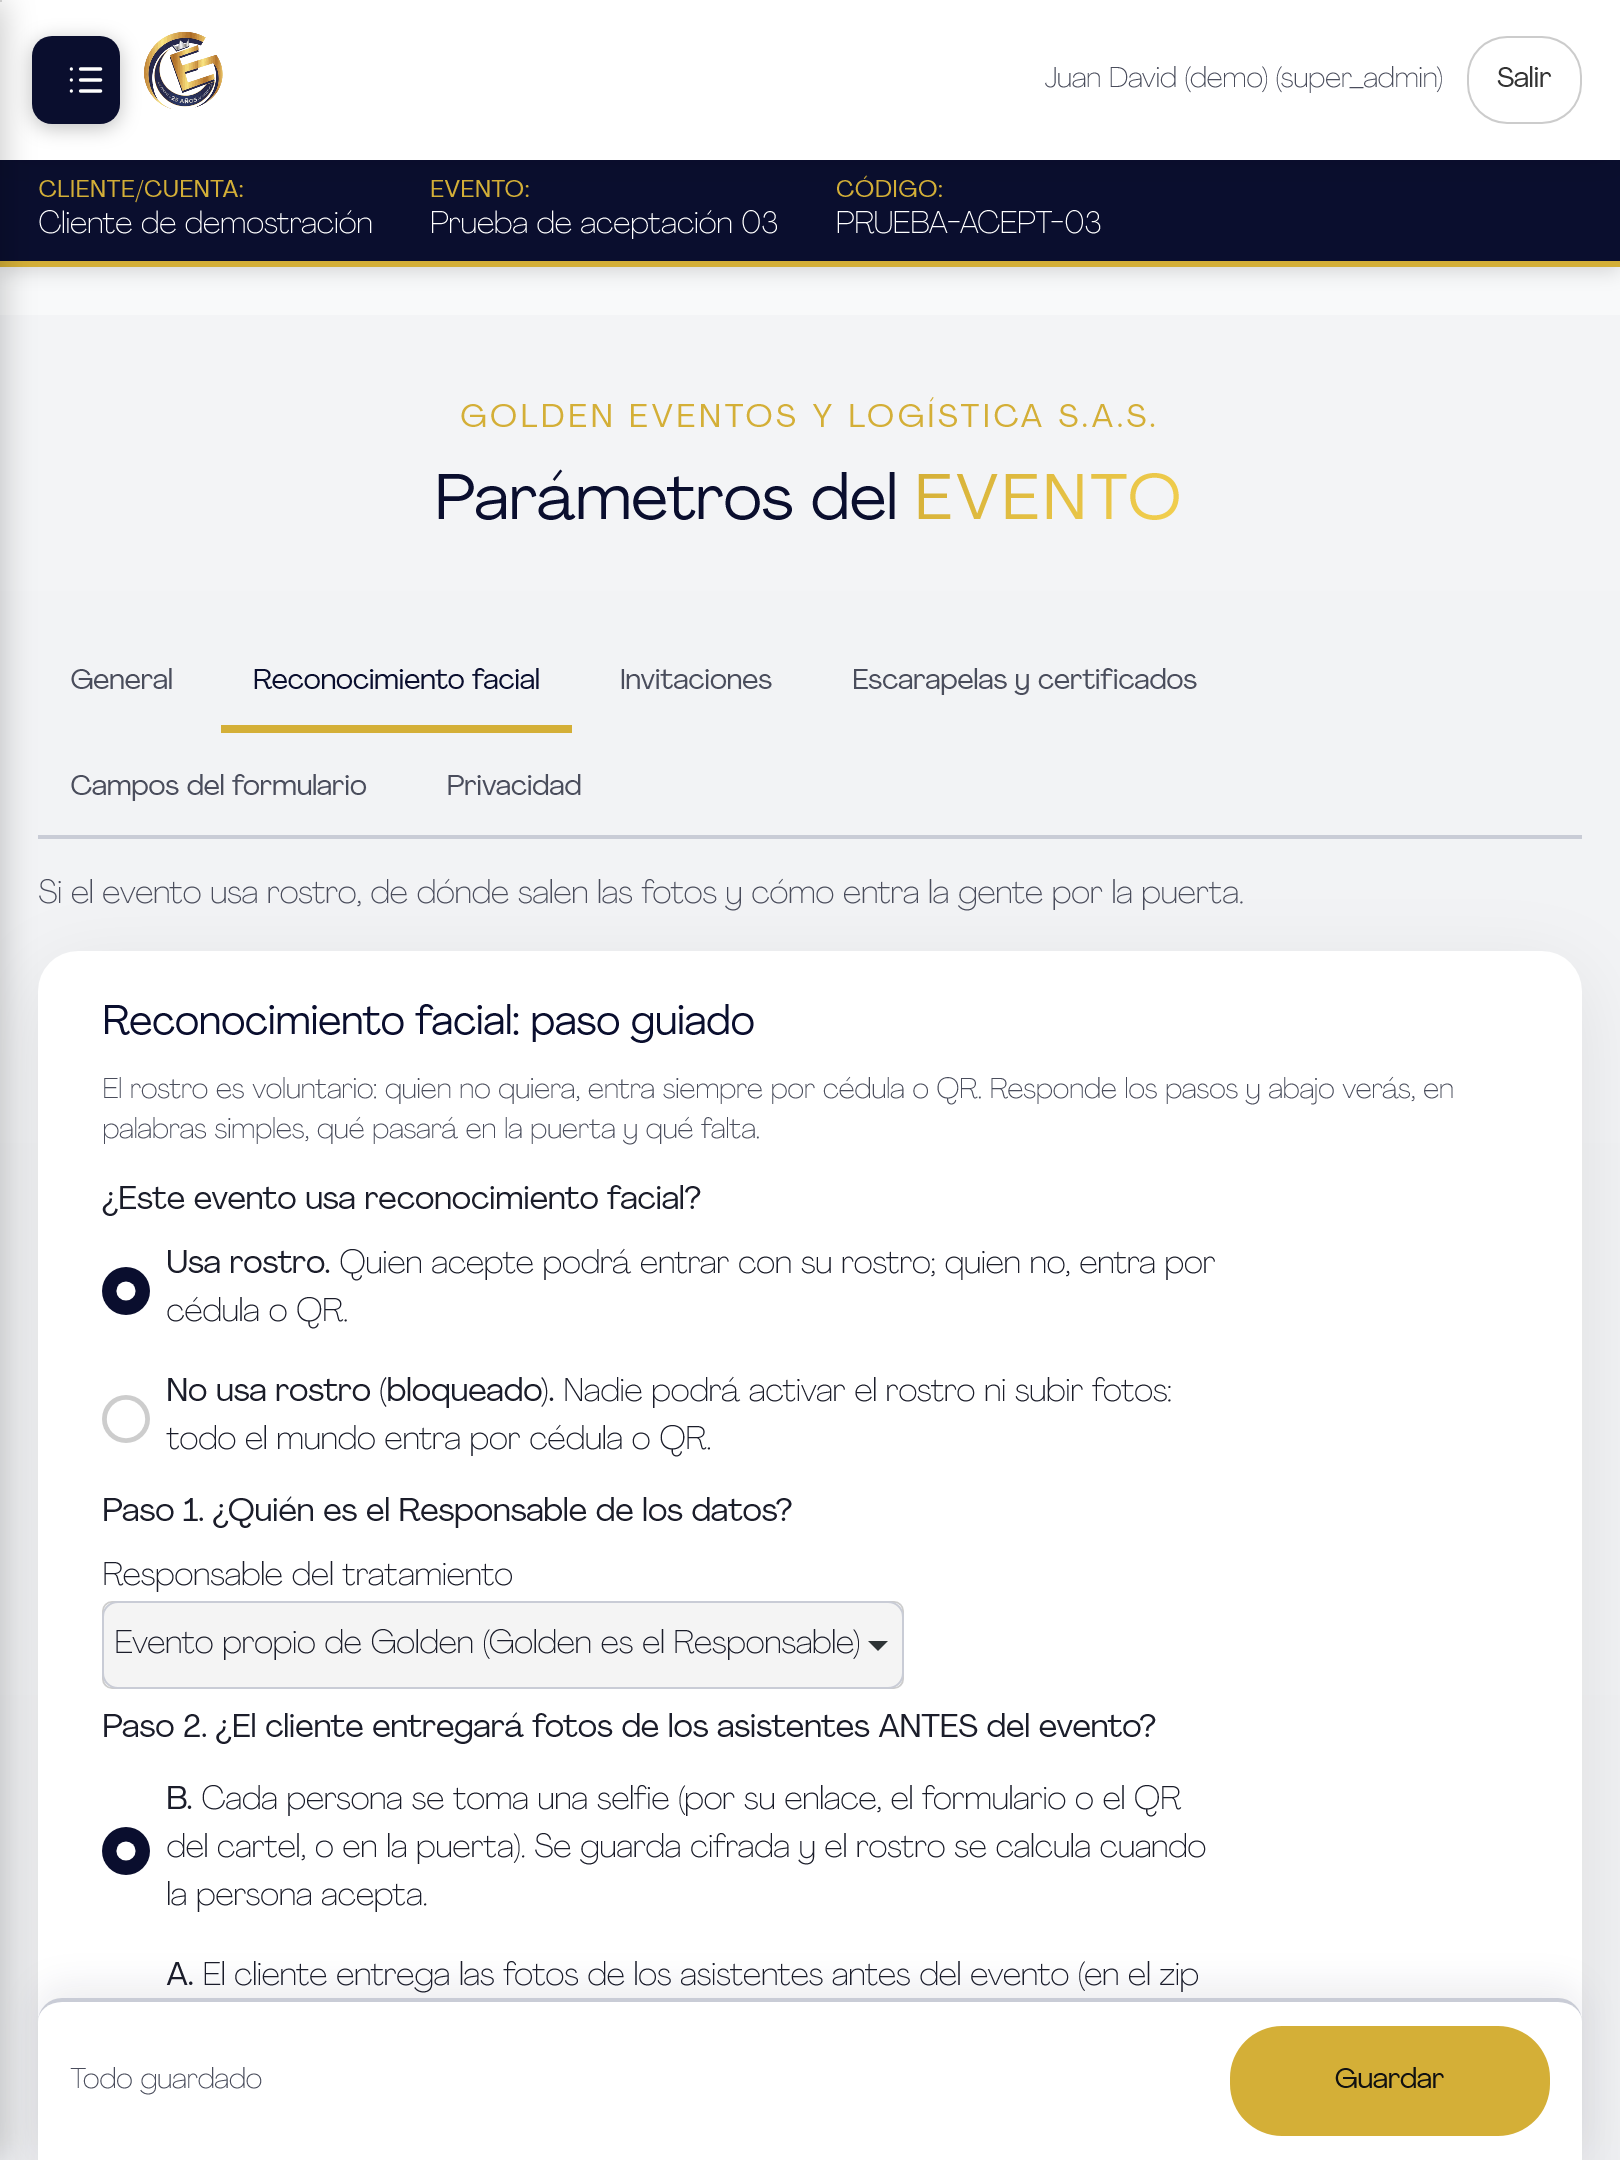
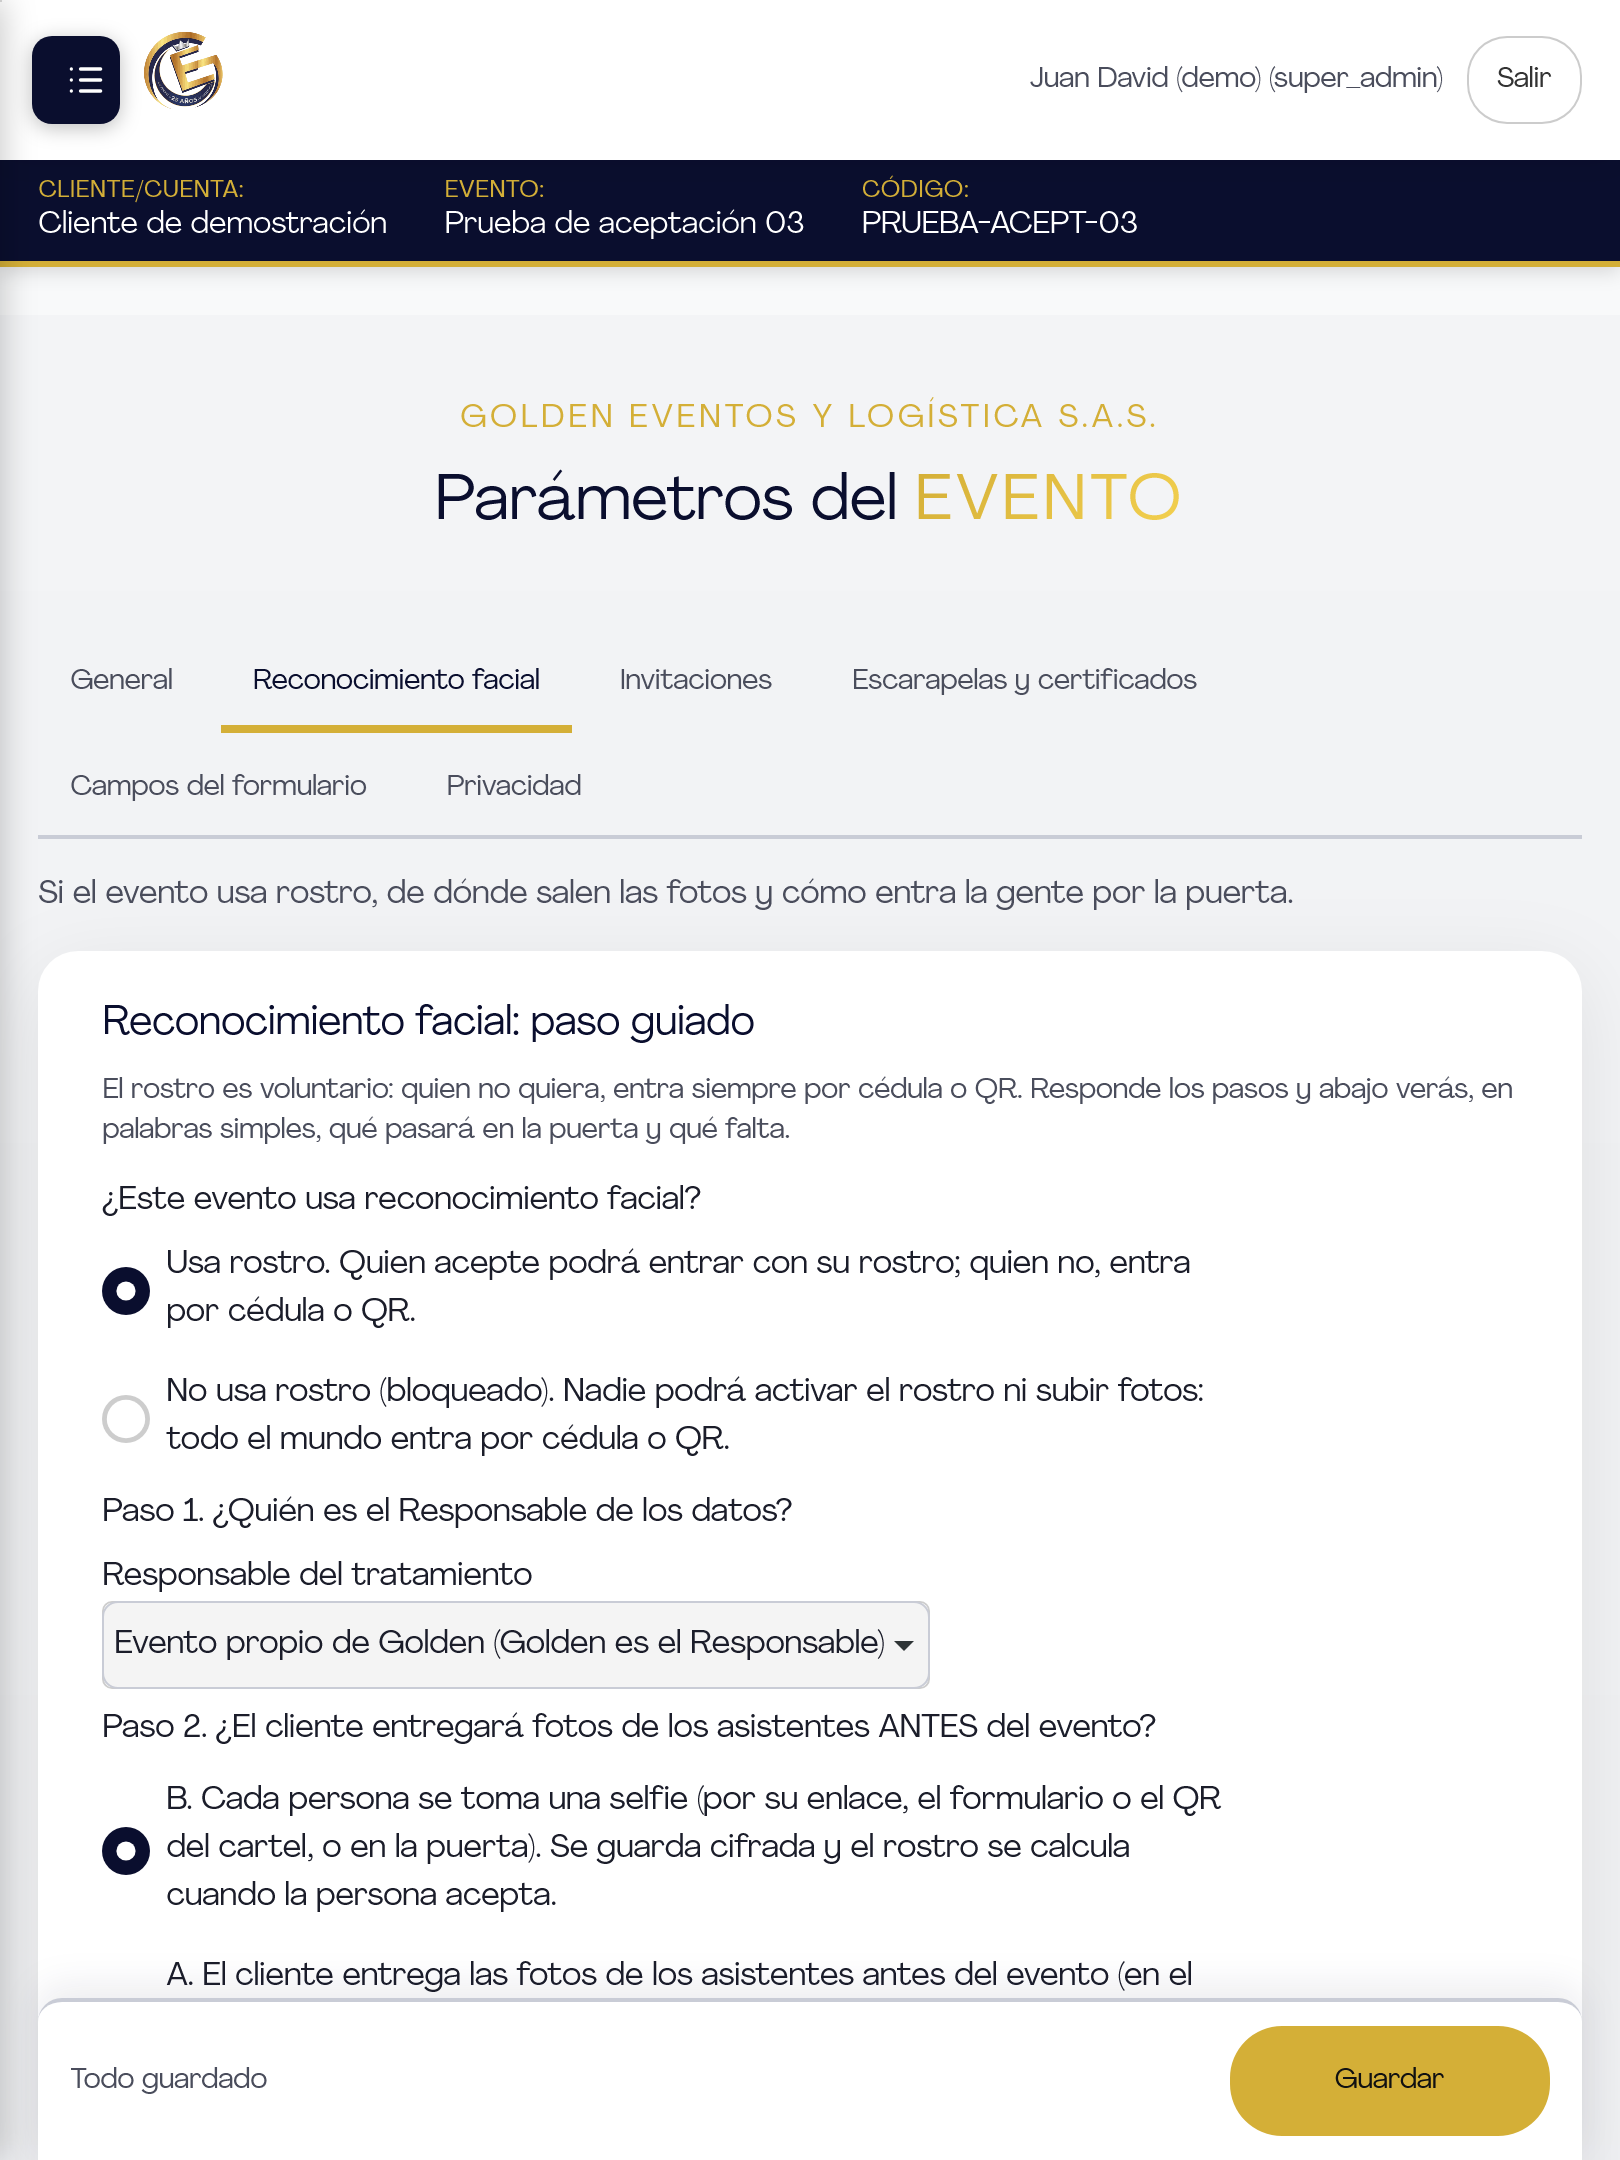
UX: Regular (600) para todo texto de menos de 18 px; Thin solo desde 18 px; prueba, medición y capturas actualizadas

diff --git a/static/css/ux1.css b/static/css/ux1.css
@@ -33,10 +33,14 @@
   /* espaciado y radios */
   --ux-s1: 4px; --ux-s2: 8px; --ux-s3: 12px; --ux-s4: 16px; --ux-s5: 24px; --ux-s6: 32px;
   --ux-r1: 8px; --ux-r2: 12px; --ux-r3: 20px;
+  --ux-weight-small: 600;     /* Regular para texto de menos de 18 px (Agrandir: 100–500 = Thin, 600+ = Regular) */
+  --ux-weight-large: 400;     /* Thin solo desde 18 px */
   --ux-target: 44px;          /* objetivo táctil (Apple HIG 44 pt, Android 48 dp); mínimo WCAG 2.5.8 = 24 px */
 }
 
 /* ------------------------------------------------------------------ base */
+/* Agrandir Thin (peso 400) dibuja un trazo de 0,64 px a 16 px y la ayuda llega a 5,0:1 en pantallas normales (docs/ux/MEDICION_AGRANDIR.md): todo texto de menos de 18 px (cuerpo, ayuda, etiquetas, campos) usa el peso 600 = Agrandir Regular. Thin solo queda para texto de 18 px o más (ninguno hoy: los títulos ya van en 700). */
+body.ux1 { font-weight: var(--ux-weight-small); }
 body.ux1 { font-family: var(--ux-font); font-size: var(--ux-fs-body); line-height: var(--ux-lh-body); color: var(--ux-ink); }
 body.ux1 h1, body.ux1 h2, body.ux1 h3, body.ux1 h4, body.ux1 .mode-title { font-family: var(--ux-font-heading); color: var(--ux-navy); }
 body.ux1 h2 { font-size: var(--ux-fs-display); line-height: 2.5rem; }
@@ -64,7 +68,7 @@ body.ux1 label:has(> input[type="checkbox"]), body.ux1 label:has(> input[type="r
 body.ux1 button, body.ux1 .golden-btn, body.ux1 .small-btn, body.ux1 a.small-btn { min-height: var(--ux-target); min-width: 24px; font-size: var(--ux-fs-label); font-family: var(--ux-font); font-weight: 700; padding-left: var(--ux-s4); padding-right: var(--ux-s4); cursor: pointer; }
 body.ux1 .btn-table-delete, body.ux1 button.ux-compact { min-height: 32px; }
 body.ux1 input[type="text"], body.ux1 input[type="email"], body.ux1 input[type="date"], body.ux1 input[type="number"], body.ux1 input[type="search"], body.ux1 select, body.ux1 textarea {
-  min-height: var(--ux-target); font-size: var(--ux-fs-body); font-family: var(--ux-font); border: 1px solid var(--ux-line); border-radius: var(--ux-r1); color: var(--ux-ink); }
+  min-height: var(--ux-target); font-size: var(--ux-fs-body); font-weight: var(--ux-weight-small); font-family: var(--ux-font); border: 1px solid var(--ux-line); border-radius: var(--ux-r1); color: var(--ux-ink); }
 body.ux1 button:disabled, body.ux1 .golden-btn:disabled { opacity: .6; cursor: not-allowed; }
 
 /* ------------------------------------------------------------------ botones: uno principal por vista (dorado con texto oscuro); el destructivo en rojo y NUNCA principal */

diff --git a/tests/test_ux_fase1.py b/tests/test_ux_fase1.py
@@ -204,3 +204,13 @@ def test_a_tab_is_marked_saved_only_when_the_real_save_finishes_ok(client, facto
     page = client.get(f"/kiosk/{ev.id}/parametros").text
     assert "const runSave" in page and "saveWaiter" in page and "r.ok) dirty[g.id] = false; else" in page          # solo se limpia «sin guardar» con el éxito que avisa el guardado de siempre
     assert "No se guardó: " in page and "Los cambios siguen sin guardar." in page and "dirty[g.id] = false;\n                });" not in page
+
+
+def test_text_under_18_px_uses_agrandir_regular_and_thin_is_kept_for_18_px_or_more():
+    assert "--ux-weight-small: 600;" in CSS and "--ux-weight-large: 400;" in CSS and "body.ux1 { font-weight: var(--ux-weight-small); }" in CSS
+    inputs = re.search(r"body\.ux1 input\[type=\"text\"\].*?\{(.*?)\}", CSS, re.S).group(1)
+    assert "font-weight: var(--ux-weight-small)" in inputs                                          # los campos de formulario no heredan el peso: se pone aparte
+    sizes = {name: float(v) * 16 for name, v in re.findall(r"--ux-fs-([a-z]+):\s*([0-9.]+)rem", CSS)}
+    assert sizes["body"] == 16 and sizes["label"] == 14 and all(px >= 18 for name, px in sizes.items() if name not in ("body", "label"))      # lo que no es Regular (>= 18 px) son títulos
+    agrandir = open("static/css/agrandir.css", encoding="utf-8").read()
+    assert "font-weight: 100 500" in agrandir and "font-weight: 600 900" in agrandir and "agrandir-regular.otf" in agrandir.split("font-weight: 600 900")[0].rsplit("@font-face", 1)[1]

diff --git a/docs/ux/MEDICION_AGRANDIR.md b/docs/ux/MEDICION_AGRANDIR.md
@@ -19,3 +19,7 @@ Conclusión: con Thin los colores cumplen 4,5:1 sobre el papel, pero en un monit
 
 ## Licencia
 Los archivos traen: «Copyright © 2018 by Alexander Slobzheninov. All rights reserved.» No traen texto de licencia, ni URL de licencia; el campo de permisos de incrustación (`fsType`) vale 4 («solo vista previa e impresión»), que en la práctica no autoriza servirla como fuente web. En el repositorio no consta ninguna licencia web (`docs/historial.md` solo dice «fuente comercial… provista por Juan David»). Hay que pedirle al proveedor la licencia web y guardarla en `docs/legal/`.
+
+## Decisión del dueño (17 oct 2026): aplicada
+Todo texto de menos de 18 px (cuerpo, ayuda, etiquetas y campos de formulario) usa el peso 600 = Agrandir Regular (`--ux-weight-small` en `static/css/ux1.css`); Thin queda para 18 px o más (hoy ningún texto: los títulos ya van en 700). Medido: ayuda 14 px, 8,4:1 también en el trazo; cuerpo 16 px, 16,7:1. Capturas: `capturas/agrandir_*.png`.
+Efecto secundario a tener en cuenta: como Thin y Regular ahora se ven iguales de pesados, una negrilla dentro de un párrafo («**Usa rostro.** Quien acepte…») ya no se distingue por peso (700 también cae en Regular); si hace falta énfasis, hay que usar color o tamaño. Y si alguien elige otra tipografía en Configuración > Apariencia, 600 es semi-negrita en esa familia.
